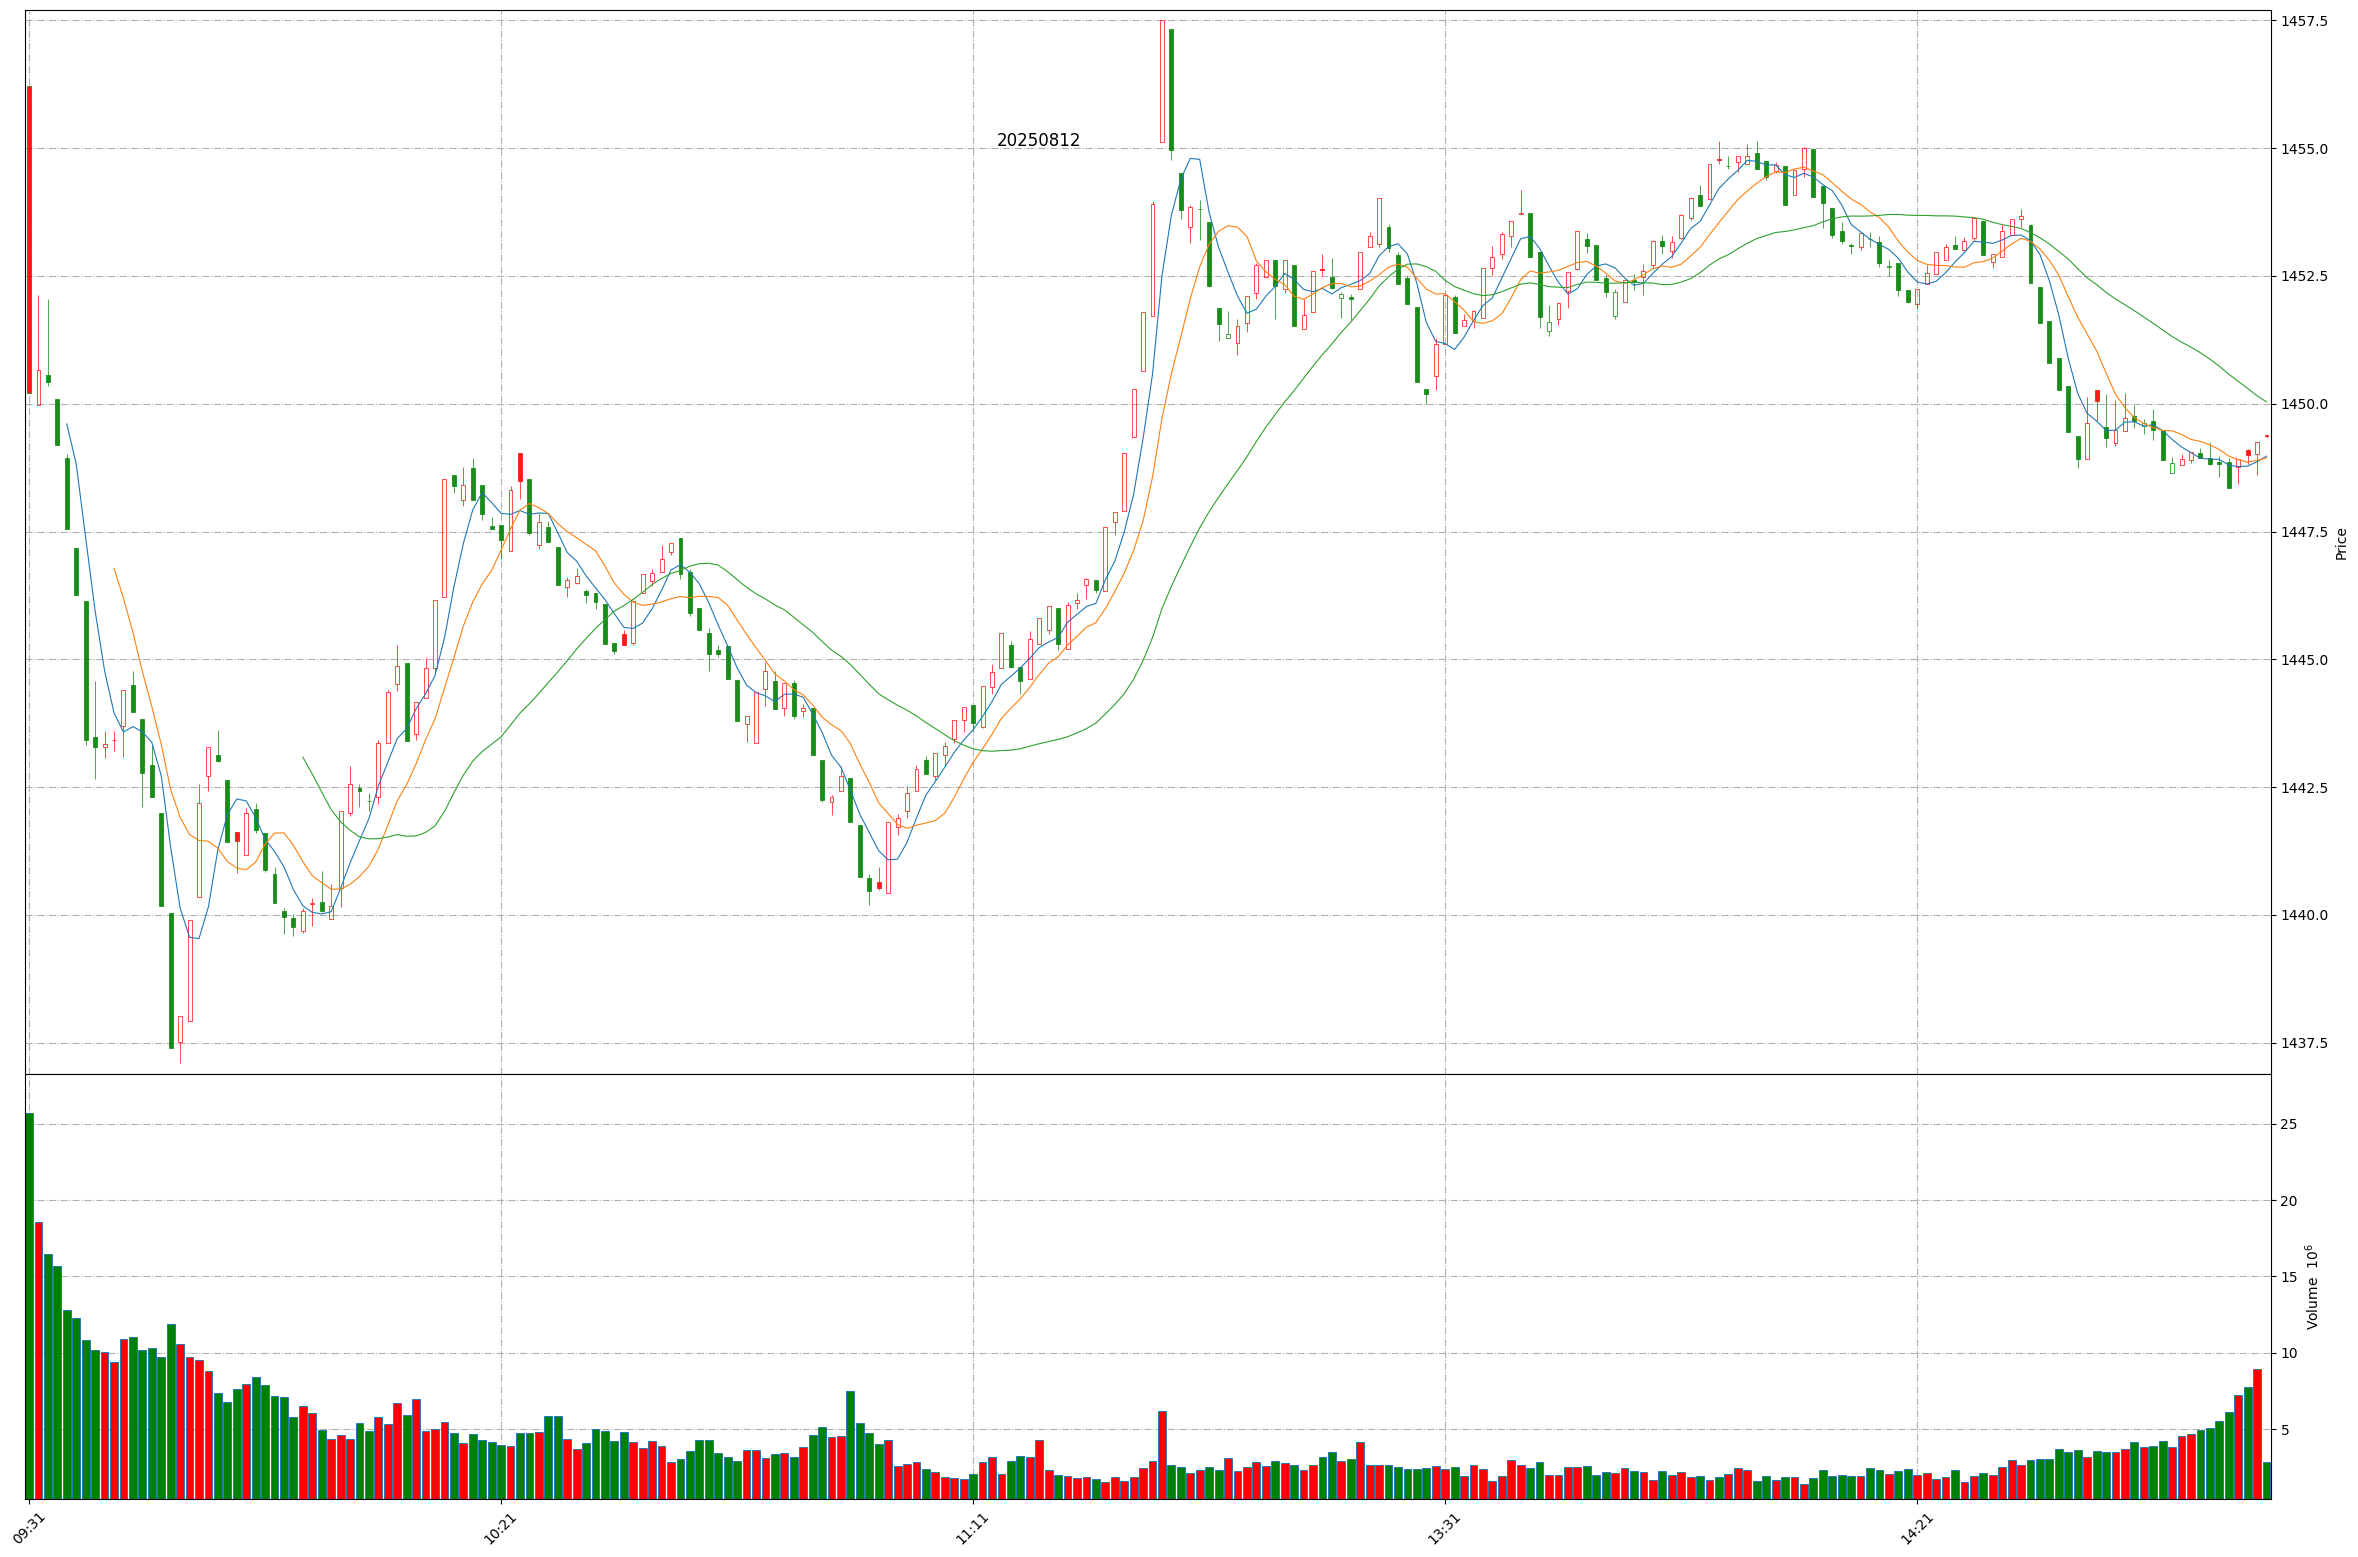
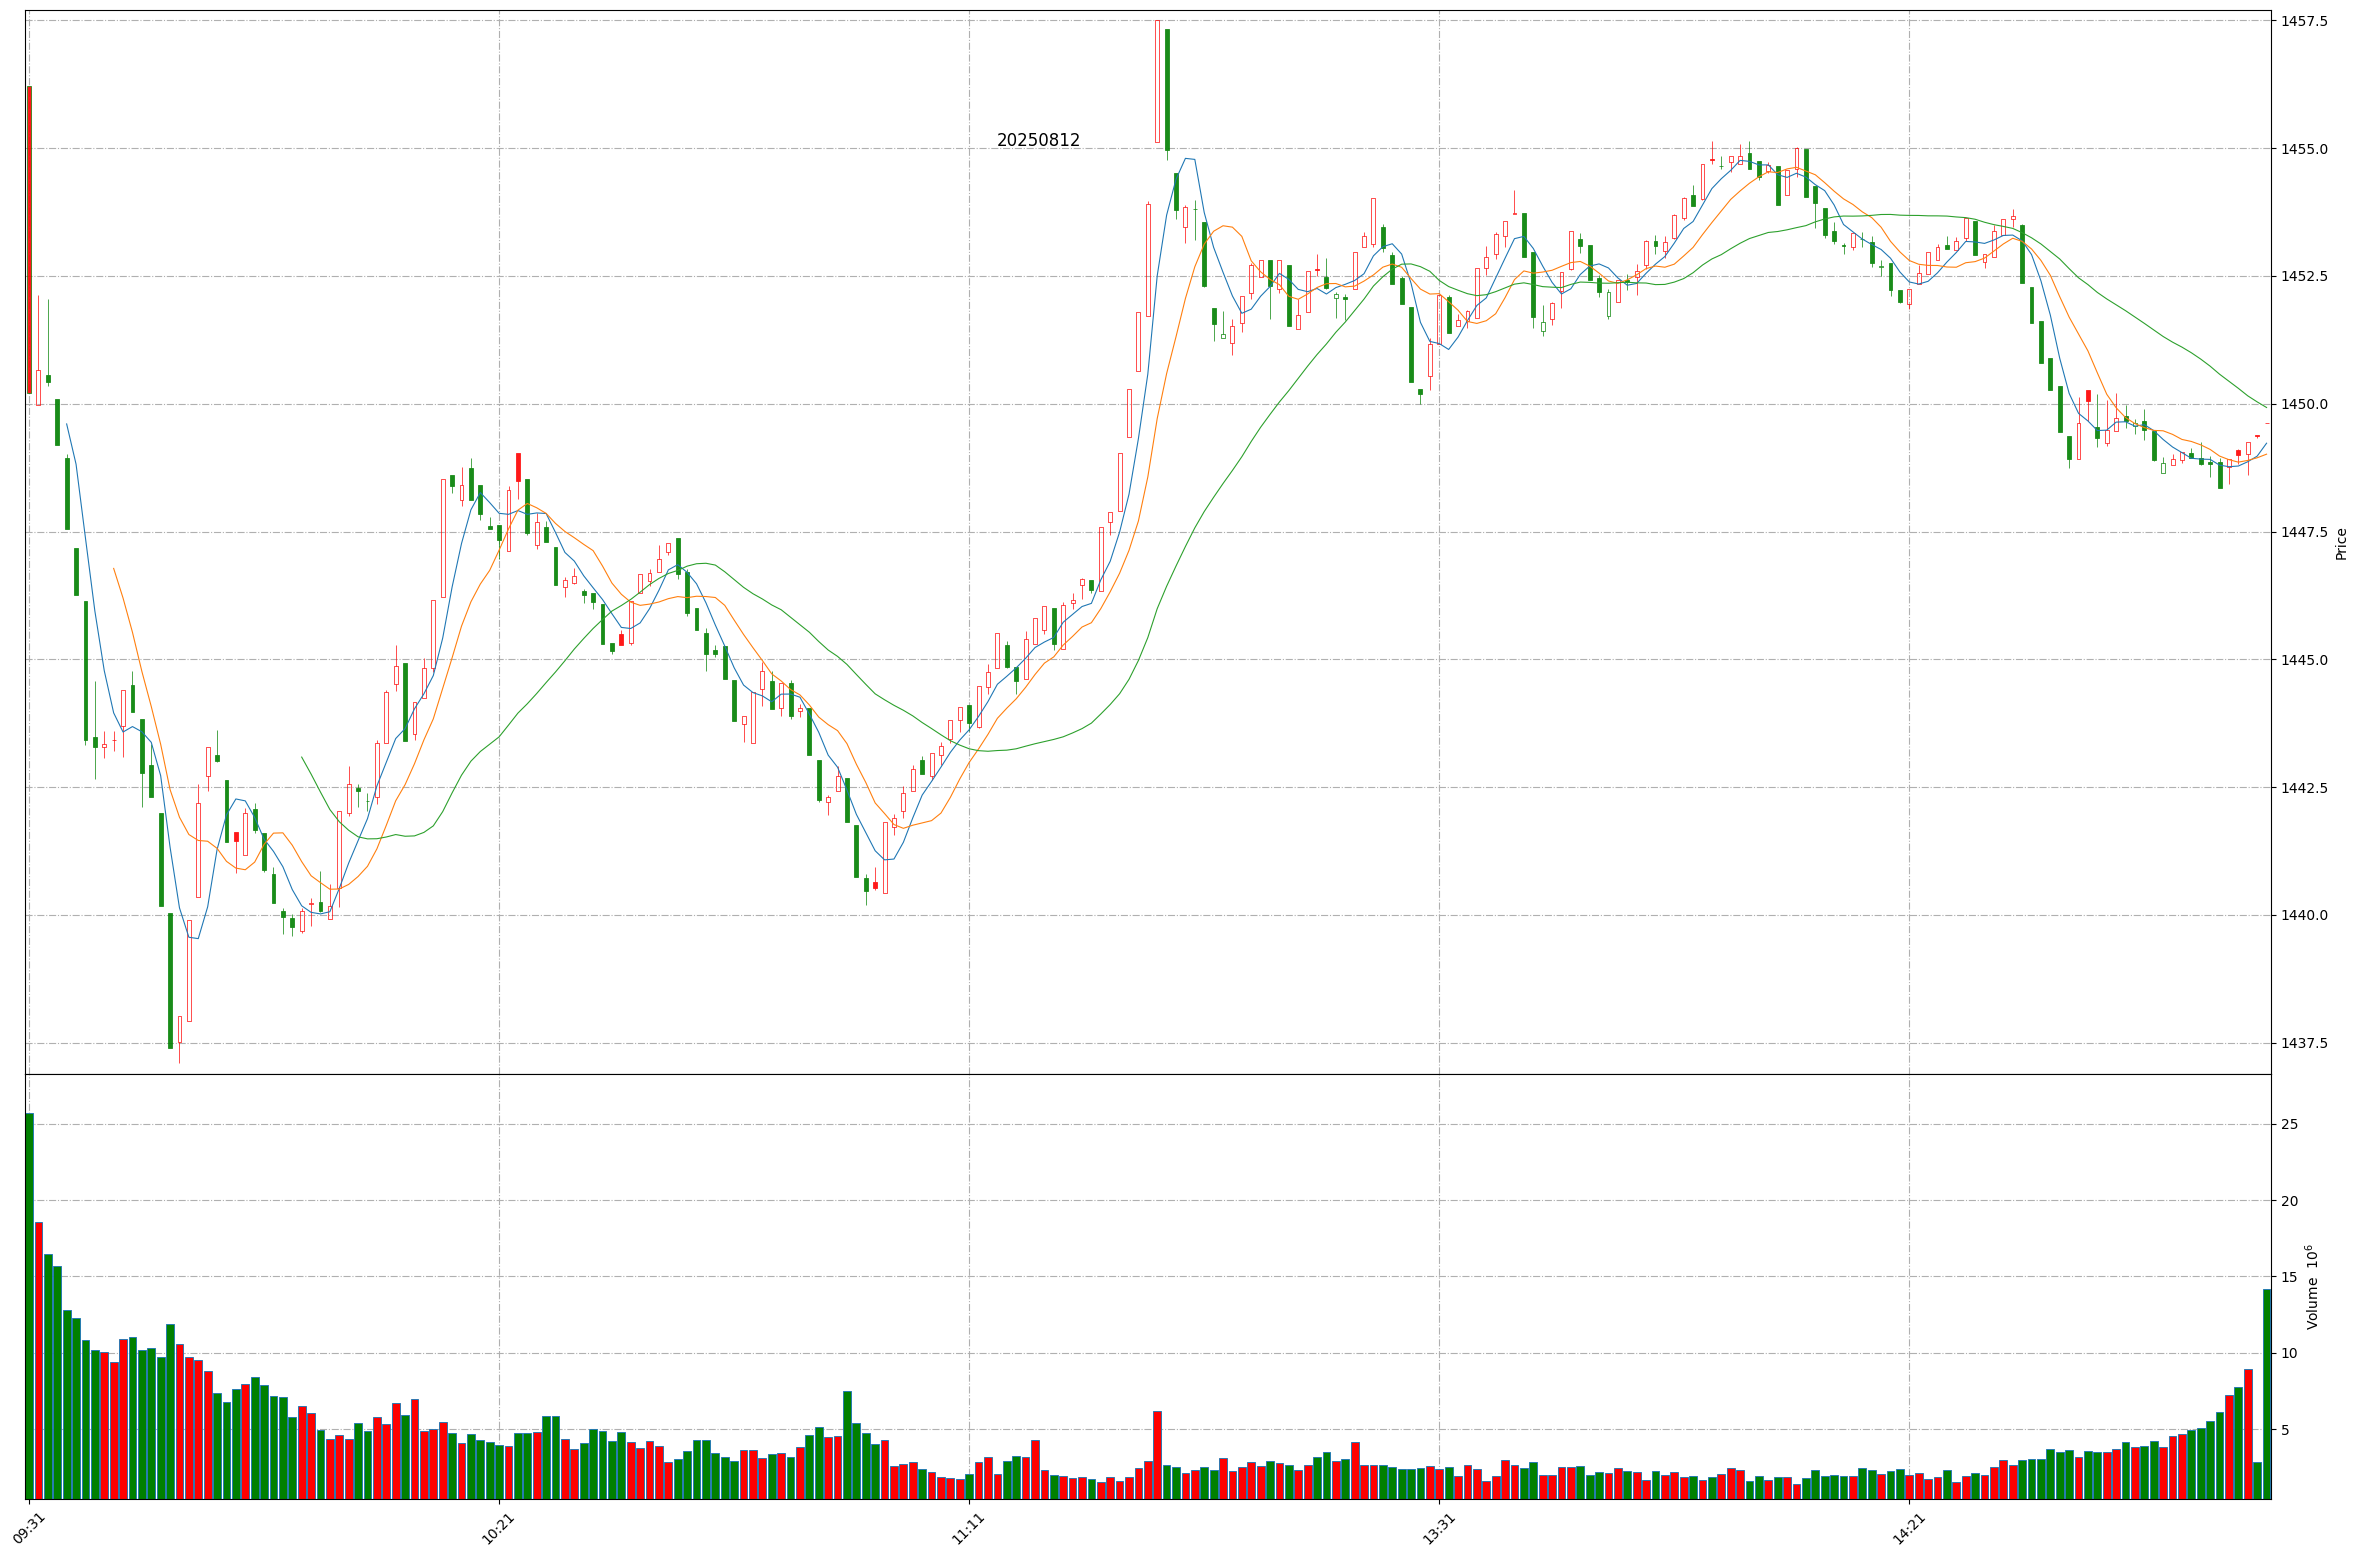
Github action update at 2025-08-12 15:16:00.

diff --git a/README.md b/README.md
@@ -1,11 +1,11 @@
 
 # Daily-A-share-market-quotes 每日 A 股指数（5min 更新）- 20250812
 
-### 上证指数 20250812 14:59
+### 上证指数 20250812 15:15
 ![](./fig/2025/8/20250812-sh000001.png)
 
-### 深证成指 20250812 14:59
+### 深证成指 20250812 15:15
 ![](./fig/2025/8/20250812-sz399001.png)
 
-### 北证50 20250812 14:59
+### 北证50 20250812 15:15
 ![](./fig/2025/8/20250812-bj899050.png)
